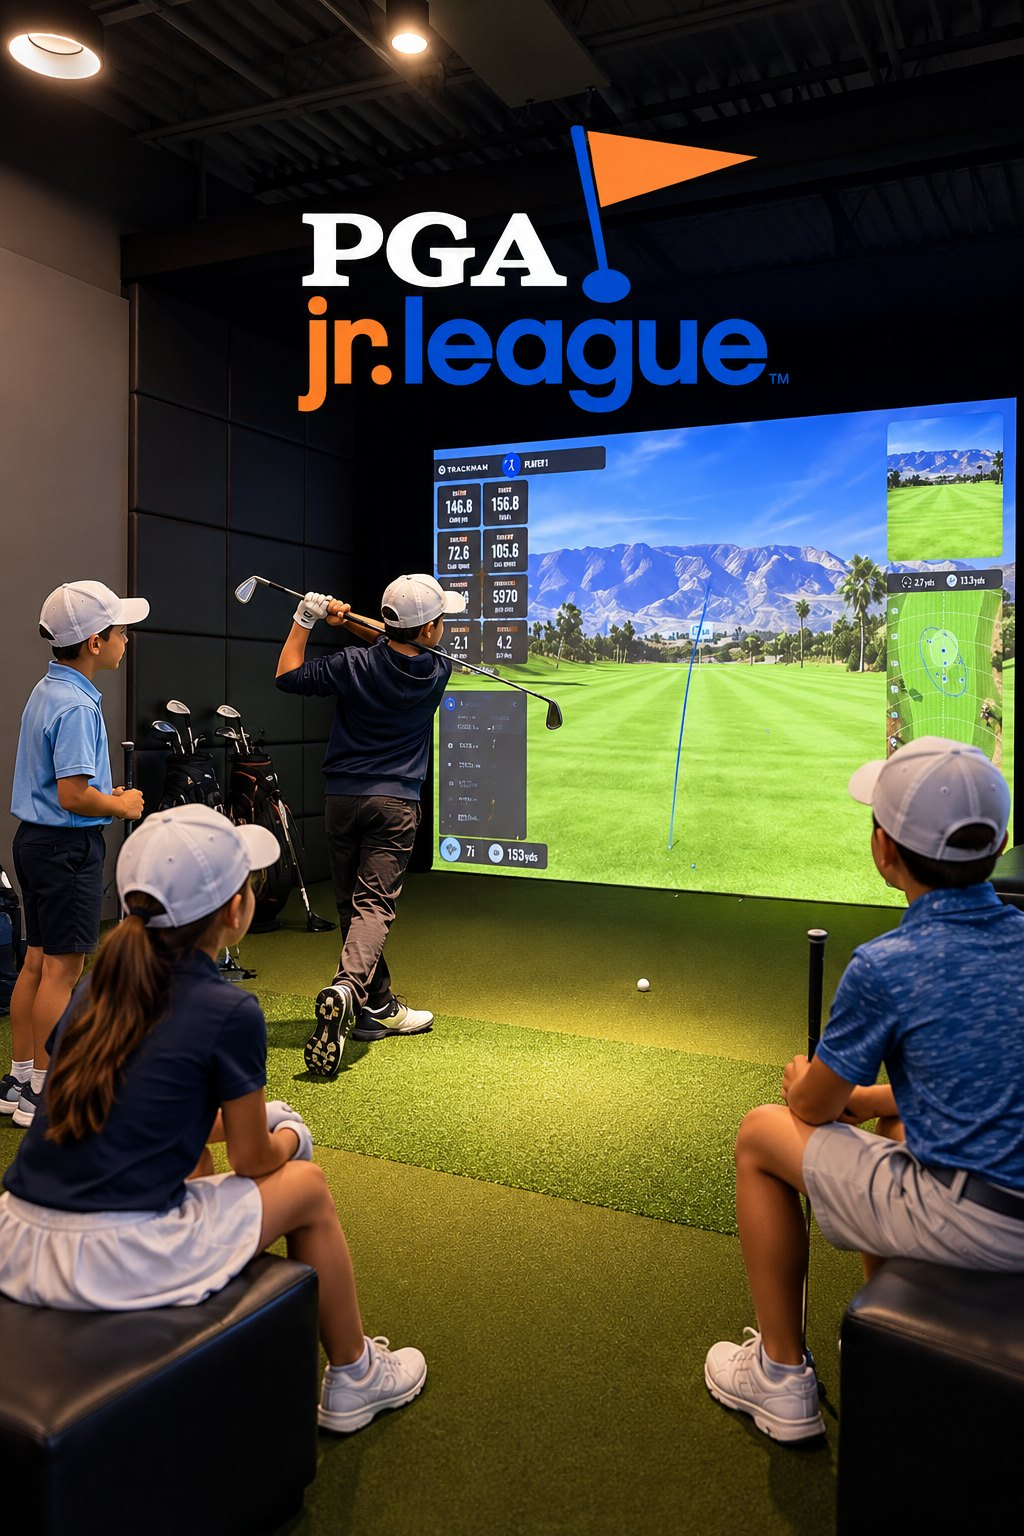
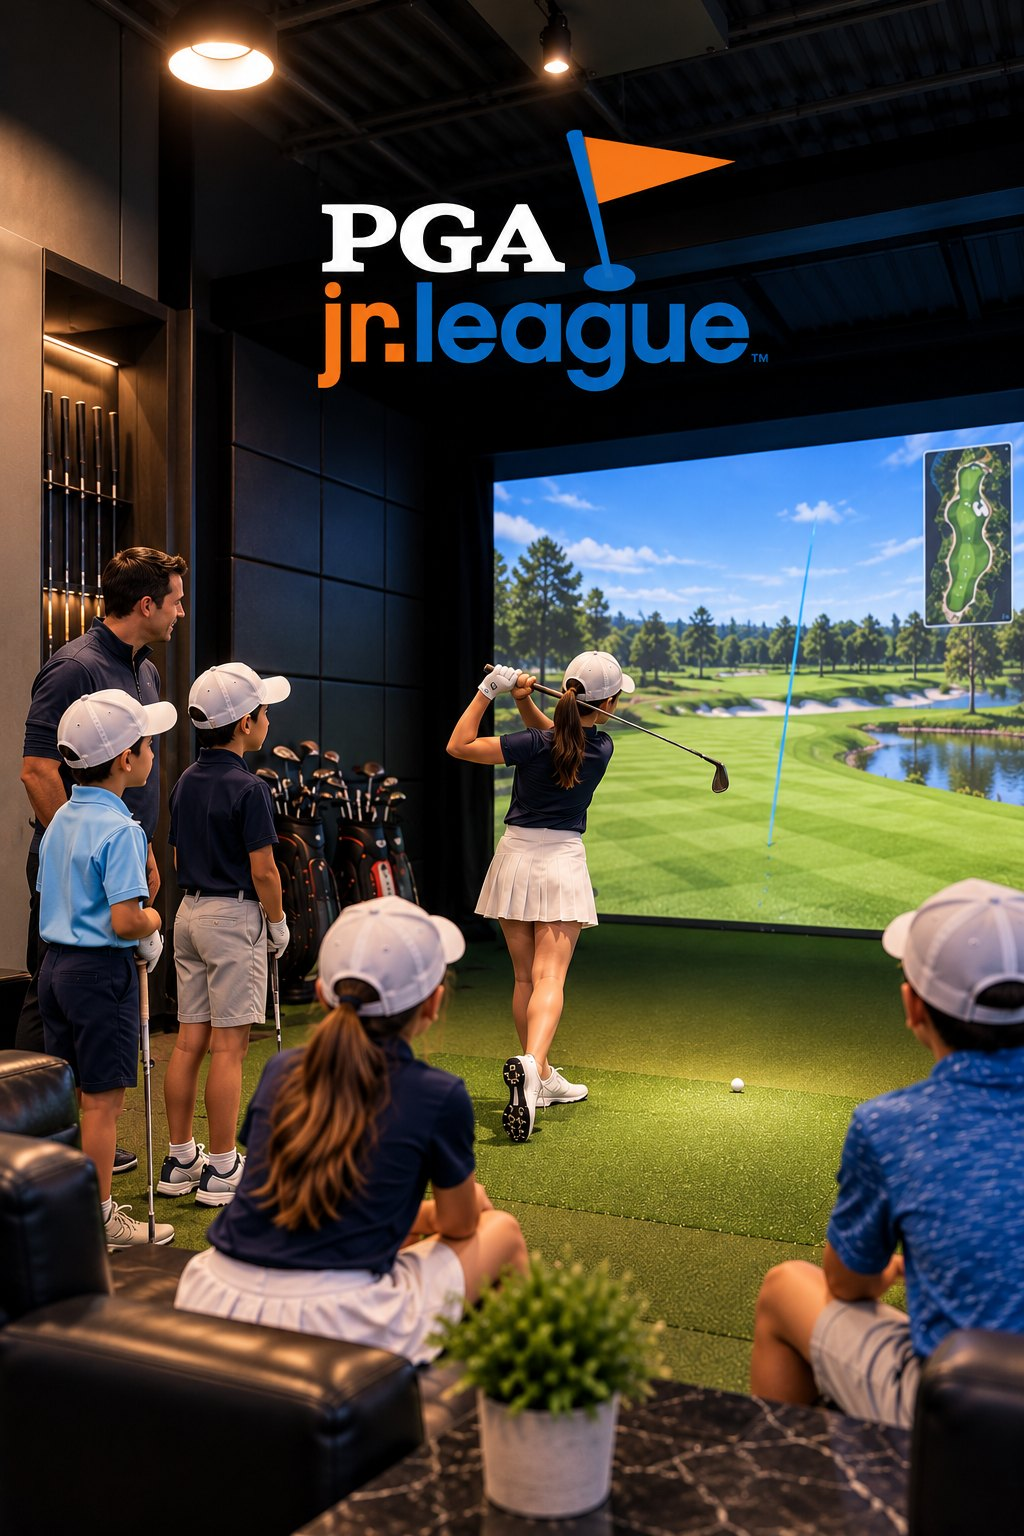
League photos

diff --git a/app/leagues/page.js b/app/leagues/page.js
@@ -20,8 +20,8 @@ export default function Leagues() {
 
       <section className="section section-green">
         <div className="wrap grid-2 feature">
-          <div className="feature-img" style={{ aspectRatio: "2/3", maxWidth: 460, margin: "0 auto" }}>
-            <img src="/img/events/womens-league.jpg" alt="Women's Simulator Golf League — Girls' Night Out" />
+          <div className="feature-img" style={{ aspectRatio: "4/5", maxWidth: 460, margin: "0 auto" }}>
+            <img src="/img/events/womens-league-photo.jpg" alt="Women's league night in a Vanguard TrackMan bay" />
           </div>
           <div>
             <span className="tag">Now enrolling · Starts Monday, Oct 26</span>
